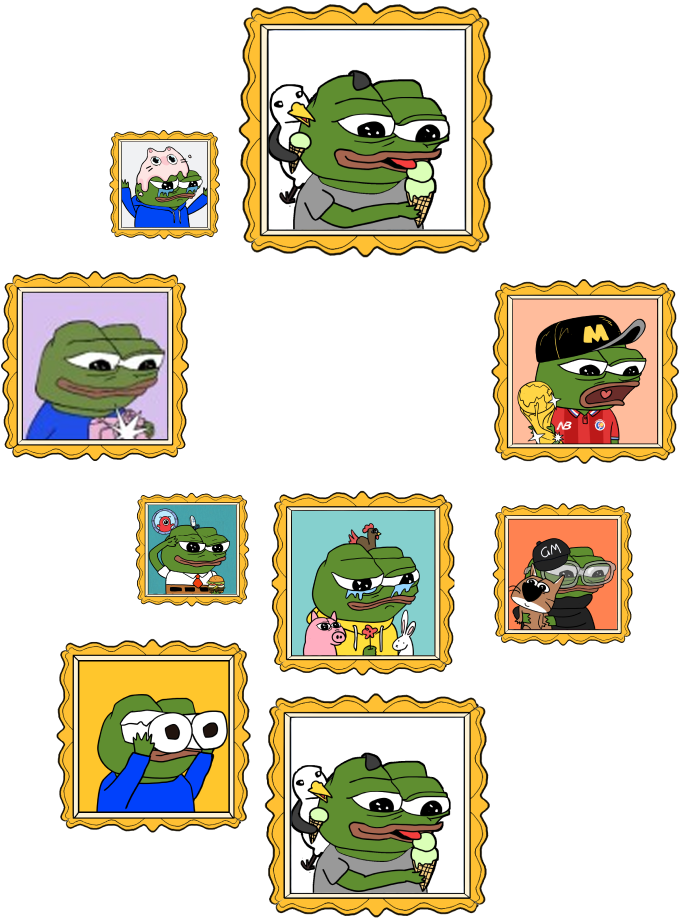
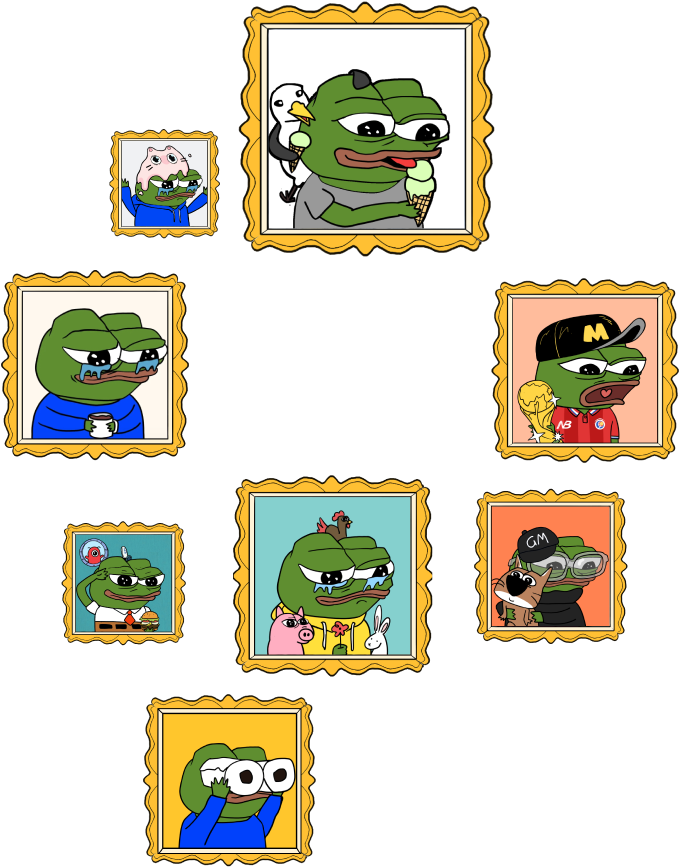
update

diff --git a/src/components/NFT.tsx b/src/components/NFT.tsx
@@ -78,7 +78,7 @@ const NFT = () => {
             alt=""
             width={0}
             height={0}
-            className=" absolute w-[100px] top-[92%] left-[14%] hover:scale-105 transition-transform cursor-pointer"
+            className=" absolute w-[100px] top-[84%] left-[54%] hover:scale-105 transition-transform cursor-pointer"
             unoptimized
             onClick={() => (window.location.href = "https://opensea.io/collection/colorpepe-bc404")}
           />
